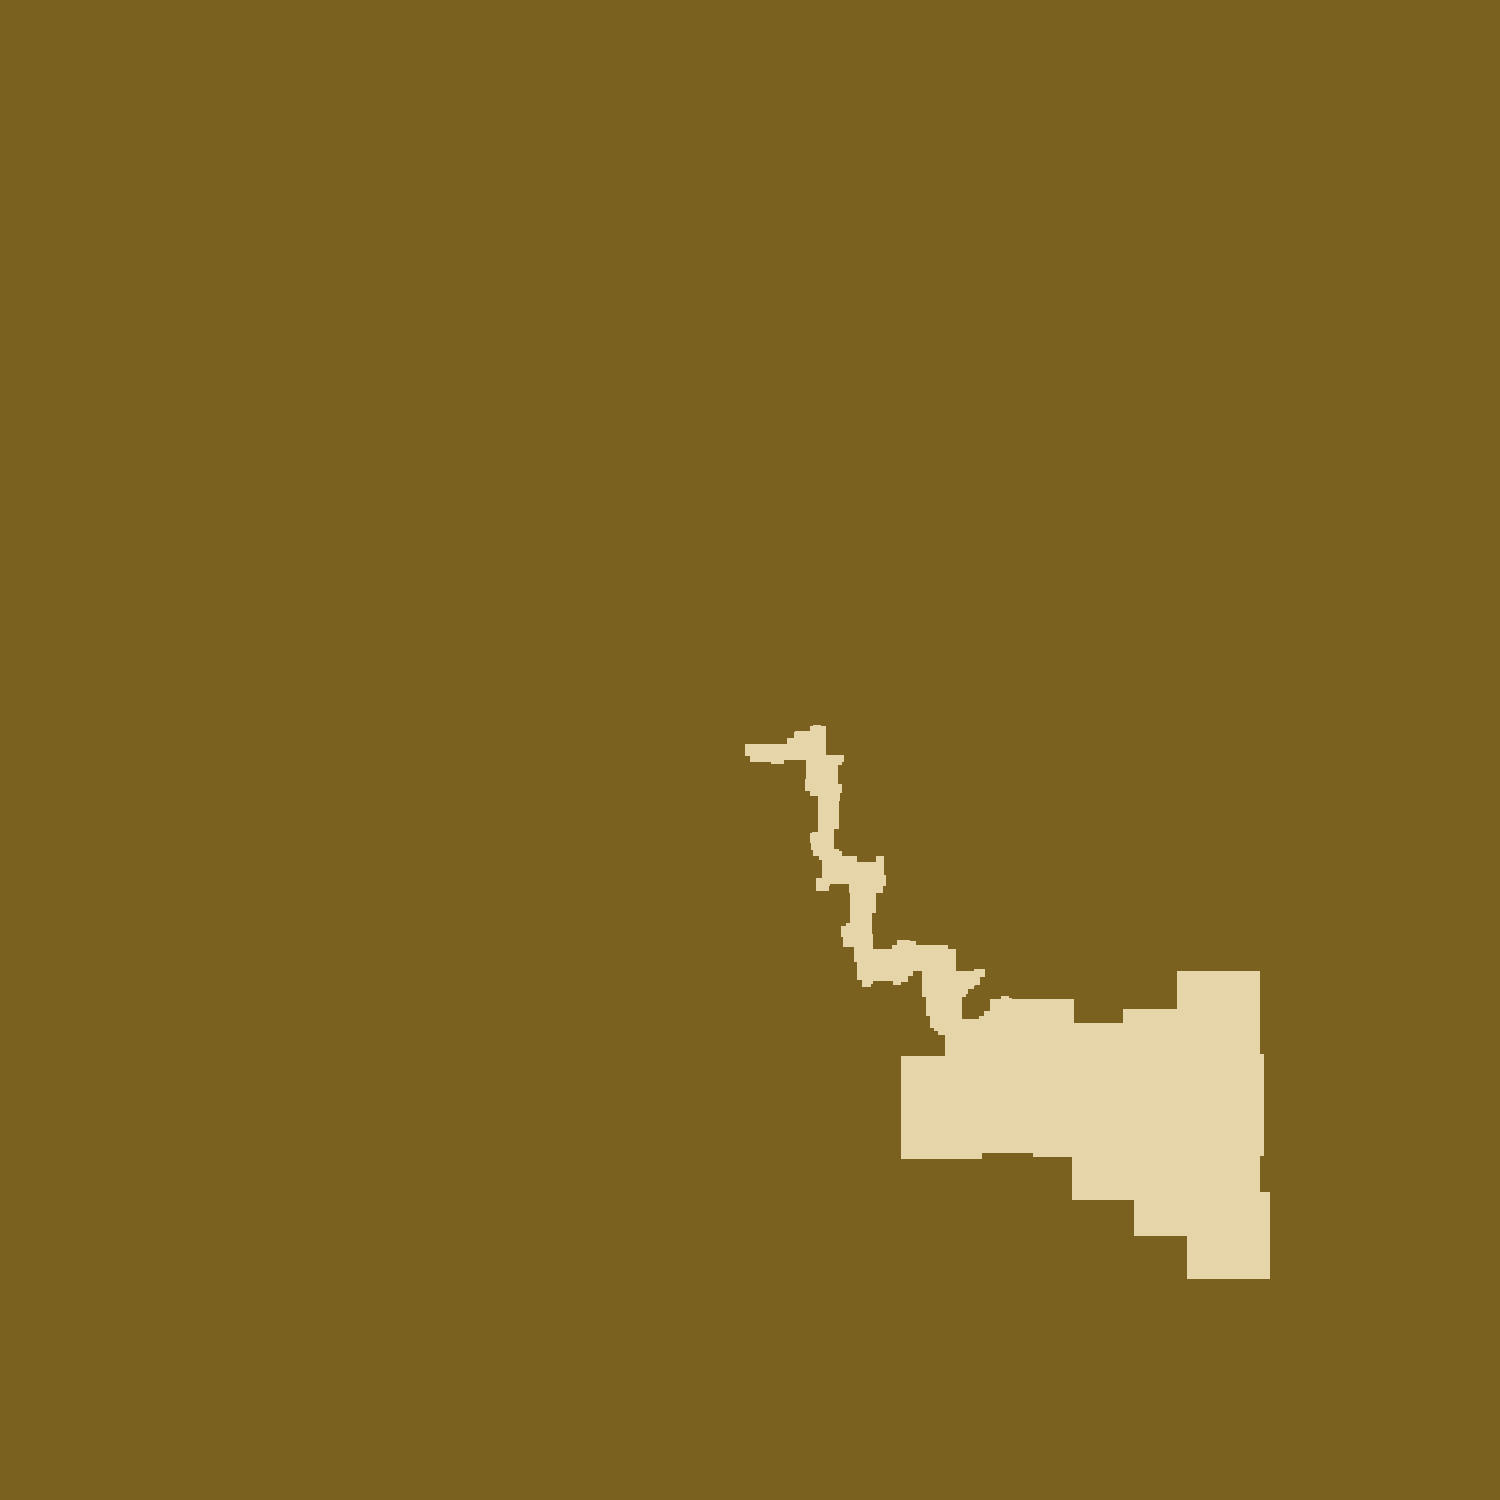
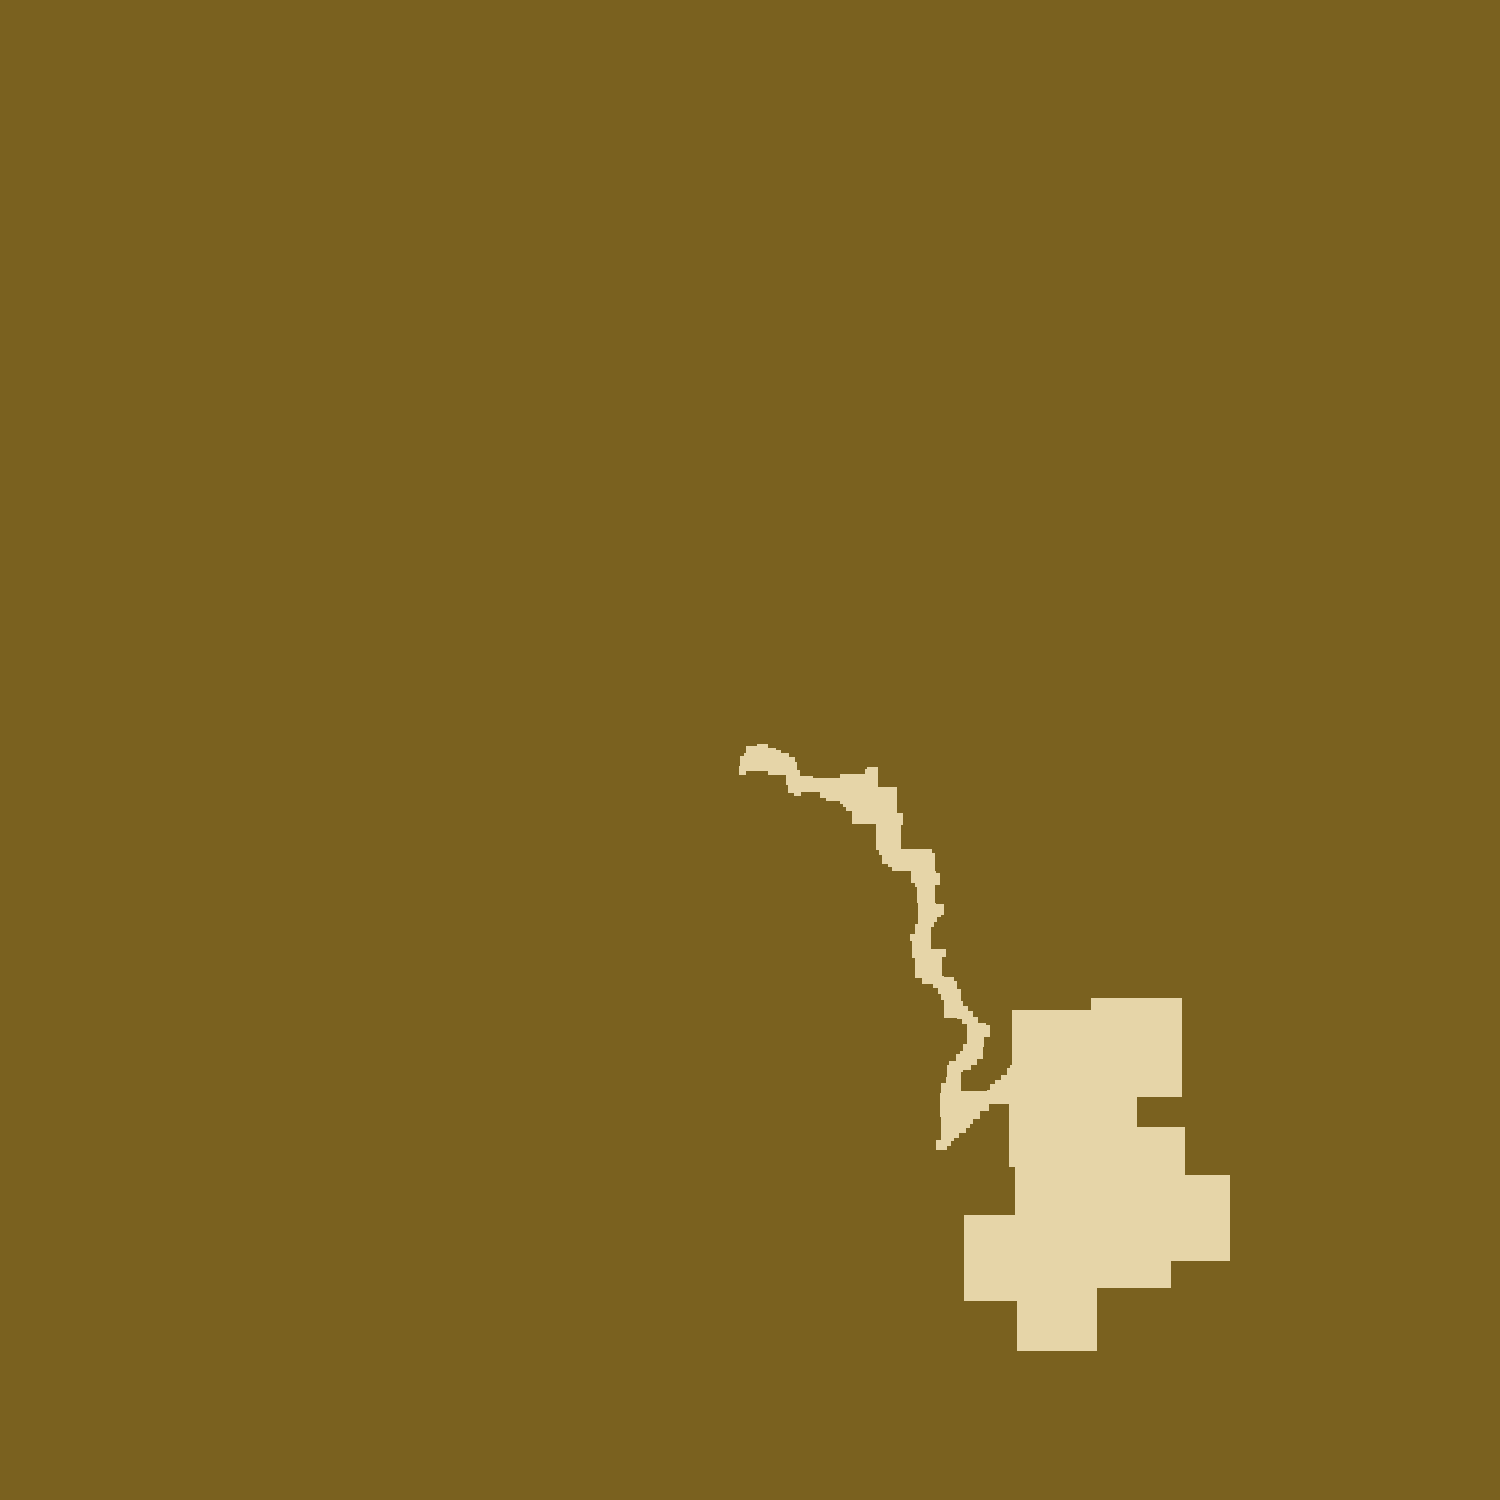
move init center to map

Changed region(s): [[0.4907, 0.46, 0.8587, 0.92]]

diff --git a/src/main.rs b/src/main.rs
@@ -26,7 +26,6 @@ struct FloorPattern {
     rng_range_number_of_direction_changes: (i32, i32),
     rng_range_direction_repeat: (i32, i32),
     allowed_directions: Vec<(i32, i32)>,
-    generation_init_center: (i32, i32),
     generation_area_size: (i32, i32),
 }
 #[derive(PartialEq, Eq)]
@@ -38,6 +37,7 @@ struct Map {
     name: String,
     oob_type: TileType,
     biomes: Vec<FloorPattern>,
+    generation_init_center: (i32, i32),
 }
 // const DIRECTIONS_OUTDOOR: [(i32, i32); 8] = [
 //     (0, -1), // ↑
@@ -79,20 +79,16 @@ fn main() {
             (-1, 1),
             (1, 1),
         ],
-        generation_init_center: (750, 750),
         generation_area_size: (700, 700),
     };
     let small_cross_dir = FloorPattern {
-        // odds: 1.0,
         rng_range_multiplicator_rectangle_size: (0.02, 0.06),
         rng_range_number_of_direction_changes: (20, 30),
         rng_range_direction_repeat: (5, 10),
         allowed_directions: vec![(0, -1), (0, 1), (-1, 0), (1, 0)],
-        generation_init_center: (750, 750),
         generation_area_size: (700, 700),
     };
     let small_all_dir = FloorPattern {
-        // odds: 1.0,
         rng_range_multiplicator_rectangle_size: (0.02, 0.04),
         rng_range_number_of_direction_changes: (15, 25),
         rng_range_direction_repeat: (10, 15),
@@ -106,34 +102,28 @@ fn main() {
             (-1, 1),
             (-1, -1),
         ],
-        generation_init_center: (750, 750),
         generation_area_size: (700, 700),
     };
     let many_tiny_all_dir = FloorPattern {
-        // odds: 1.0,
         rng_range_multiplicator_rectangle_size: (0.01, 0.020),
         rng_range_number_of_direction_changes: (30, 40),
         rng_range_direction_repeat: (10, 15),
         allowed_directions: vec![(1, -1), (1, 1), (-1, 1), (-1, -1)],
-        generation_init_center: (750, 750),
         generation_area_size: (700, 700),
     };
     let long_path_bottom_right_dir = FloorPattern {
-        // odds: 1.0,
         rng_range_multiplicator_rectangle_size: (0.01, 0.020),
         rng_range_number_of_direction_changes: (20, 30),
         rng_range_direction_repeat: (10, 15),
         allowed_directions: vec![(1, -1), (1, 1), (-1, 1)],
-        generation_init_center: (750, 750),
         generation_area_size: (700, 700),
     };
     let short_path_bottom_right_dir = FloorPattern {
-        // odds: 1.0,
         rng_range_multiplicator_rectangle_size: (0.01, 0.020),
         rng_range_number_of_direction_changes: (10, 15),
         rng_range_direction_repeat: (5, 8),
         allowed_directions: vec![(1, -1), (1, 1), (-1, 1)],
-        generation_init_center: (750, 750),
+
         generation_area_size: (700, 700),
     };
     // Biome {
@@ -165,6 +155,7 @@ fn main() {
             name: String::from("Island"),
             oob_type: TileType::Water,
             biomes: vec![many_tiny_all_dir.clone(), small_all_dir.clone()],
+            generation_init_center: (750, 750),
         },
         Map {
             name: String::from("Ledge"),
@@ -173,6 +164,7 @@ fn main() {
                 long_path_bottom_right_dir.clone(),
                 long_path_bottom_right_dir.clone(),
             ],
+            generation_init_center: (100, 100),
         },
         Map {
             name: String::from("Desert"),
@@ -182,6 +174,7 @@ fn main() {
                 large_all_dir.clone(),
                 large_all_dir.clone(),
             ],
+            generation_init_center: (750, 750),
         },
         Map {
             name: String::from("Forest"),
@@ -191,6 +184,7 @@ fn main() {
                 small_cross_dir.clone(),
                 small_cross_dir.clone(),
             ],
+            generation_init_center: (750, 750),
         },
         Map {
             name: String::from("Quarry"),
@@ -201,6 +195,7 @@ fn main() {
                 many_tiny_all_dir.clone(),
                 short_path_bottom_right_dir.clone(),
             ],
+            generation_init_center: (750, 750),
         },
     ];
 
@@ -222,7 +217,7 @@ fn generate_map(seed: u64, map: Map) {
     let mut grid: Grid = init_grid(1500, 1500, oob_tiletype);
 
     // genrate walkable paths based on a random selection of possible biomes
-    let mut center = map.biomes[0].generation_init_center;
+    let mut center = map.generation_init_center;
     for i in 0..map.biomes.len() {
         center =
             generate_walkable_layout(&mut grid, &map.biomes[i], &mut rng, oob_tiletype, center);
@@ -233,20 +228,13 @@ fn generate_map(seed: u64, map: Map) {
     remove_small_cluster(&mut grid, oob_tiletype, 10, true, false);
     remove_small_cluster(&mut grid, oob_tiletype, 10, false, true);
 
-    // add_tile(
-    //     &mut grid,
-    //     rng.gen_range(0..width) as usize,
-    //     rng.gen_range(0..height) as usize,
-    //     TileType::Start,
-    // );
-    // add_tile(
-    //     &mut grid,
-    //     rng.gen_range(0..width) as usize,
-    //     rng.gen_range(0..height) as usize,
-    //     TileType::Boss,
-    // );
-    // Remove orphan non walkable tiles, based on a threashold of x tiles
-    // TODO
+    //TODO
+    // Centering and cropping maps, retry if oob
+
+    // add a map attribute bool, to remove or not the "inside shapes"
+    // start by flagging all
+
+    // Convert generated tile map oob to largest rectangle
 
     // print grid
     render_grid(&grid, map.name.clone());
